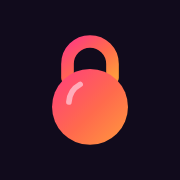
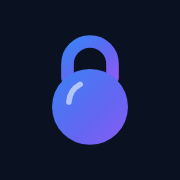
Paleta azul y más fácil encontrar todos los entrenamientos del PDF
- Paleta en azules: azul rey (PDF), índigo (pesa rusa), cian (mancuernas) y
  gris azulado (movilidad). Botones, menú e ícono con degradado azul. Las
  pesas siguen doradas y coral para que se vean contra la camiseta.
- La tarjeta del día tiene un botón con texto "Cambiar" (antes era solo
  un ícono). Su hoja agrupa las rutinas: Programa del PDF, los 14
  entrenamientos del PDF, pesa rusa, mancuernas y movilidad.
- Programa: números 1-15 para saltar a cualquier semana.
- La primera tarjeta de cada rutina muestra su estructura completa
  (ejercicio, repeticiones, rondas y pausas); si no cabe, el resumen por
  bloques. Se muestran también las series, además de los ejercicios.
- Verificado contra el PDF: los 14 entrenamientos y las 15 semanas.

Claude-Session: https://claude.ai/code/session_016intz6rYpumgujtNik13Ea

Changed region(s): [[0.2778, 0.1944, 0.7222, 0.8056]]

diff --git a/css/styles.css b/css/styles.css
@@ -1,25 +1,25 @@
-/* Forja · tarjetas que se deslizan. Cada categoría tiene su color: rosa programa, violeta pesa rusa, azul mancuernas, ámbar movilidad.
+/* Forja · tarjetas que se deslizan, en azules. Cada categoría tiene su azul: azul rey cardio y fuerza (PDF), índigo pesa rusa, cian mancuernas, gris azulado movilidad.
    Las pesas tienen color propio (dorado y coral) para no confundirse con la camiseta. */
 :root, [data-theme="light"] {
-  --bg: #f6f3fb;
+  --bg: #eef3fb;
   --surface: #ffffff;
-  --surface-2: #ece6f5;
-  --ink: #1d1430;
-  --ink-2: #6a5e85;
-  --line: #dfd6ec;
-  --mix: #e3245f;
-  --kb: #6f3be0;
-  --db: #0a77b5;
-  --mob: #b35a0a;
-  --ok: #128a52;
+  --surface-2: #e1e9f6;
+  --ink: #0e1a33;
+  --ink-2: #4d5f85;
+  --line: #d0dcee;
+  --mix: #1f62e0;
+  --kb: #3b3fd0;
+  --db: #0a7894;
+  --mob: #5b6f96;
+  --ok: #12875a;
   --danger: #d3263a;
   --on-cat: #ffffff;
-  --brand: linear-gradient(135deg, #ff3d7f 0%, #ff6a4d 55%, #ff9a3d 100%);
-  --brand-1: #ff3d7f;
-  --shadow: 0 1px 2px rgba(29, 20, 48, .06), 0 18px 36px -14px rgba(29, 20, 48, .28);
-  --shadow-sm: 0 1px 2px rgba(29, 20, 48, .05), 0 6px 16px -8px rgba(29, 20, 48, .18);
-  --fig-pants: #2b1f45;
-  --fig-shoe: #6a5e85;
+  --brand: linear-gradient(135deg, #2563eb 0%, #4f46e5 60%, #7c3aed 100%);
+  --brand-1: #2563eb;
+  --shadow: 0 1px 2px rgba(14, 26, 51, .06), 0 18px 36px -14px rgba(14, 26, 51, .28);
+  --shadow-sm: 0 1px 2px rgba(14, 26, 51, .05), 0 6px 16px -8px rgba(14, 26, 51, .18);
+  --fig-pants: #172340;
+  --fig-shoe: #52648a;
   --fig-skin: #f0b895;
   --fig-hair: #2a1e1a;
   --fig-kb: #f5b301;
@@ -37,21 +37,21 @@
 }
 @media (prefers-color-scheme: dark) {
   :root:not([data-theme="light"]) {
-    --bg: #110b1c; --surface: #1c1429; --surface-2: #281d3b; --ink: #f5efff; --ink-2: #ab9dc9; --line: #382a50;
-    --mix: #ff5c8d; --kb: #a585ff; --db: #4fb8f0; --mob: #f2a13b; --ok: #3dd68c; --danger: #ff6b7a; --on-cat: #110b1c;
+    --bg: #0a1121; --surface: #111b33; --surface-2: #1a2745; --ink: #ecf1ff; --ink-2: #9db0d8; --line: #263a63;
+    --mix: #5b94ff; --kb: #8d8fff; --db: #38c3e6; --mob: #93a6cc; --ok: #3dd68c; --danger: #ff6b7a; --on-cat: #0a1121; --brand-1: #7aa7ff;
     --shadow: 0 1px 2px rgba(0, 0, 0, .35), 0 18px 36px -14px rgba(0, 0, 0, .7);
     --shadow-sm: 0 1px 2px rgba(0, 0, 0, .3), 0 6px 16px -8px rgba(0, 0, 0, .55);
-    --fig-pants: #d4c8f0; --fig-shoe: #9c8fbf; --fig-skin: #f0b895; --fig-hair: #6b4a3a;
+    --fig-pants: #c5d3f5; --fig-shoe: #8da0c9; --fig-skin: #f0b895; --fig-hair: #6b4a3a;
     --fig-kb: #ffc53d; --fig-kb-h: #b98a10; --fig-db: #ff8f5e; --fig-db-h: #c2582a; --tint: 16%;
     color-scheme: dark;
   }
 }
 :root[data-theme="dark"], [data-theme="dark"] {
-  --bg: #110b1c; --surface: #1c1429; --surface-2: #281d3b; --ink: #f5efff; --ink-2: #ab9dc9; --line: #382a50;
-  --mix: #ff5c8d; --kb: #a585ff; --db: #4fb8f0; --mob: #f2a13b; --ok: #3dd68c; --danger: #ff6b7a; --on-cat: #110b1c;
+  --bg: #0a1121; --surface: #111b33; --surface-2: #1a2745; --ink: #ecf1ff; --ink-2: #9db0d8; --line: #263a63;
+  --mix: #5b94ff; --kb: #8d8fff; --db: #38c3e6; --mob: #93a6cc; --ok: #3dd68c; --danger: #ff6b7a; --on-cat: #0a1121; --brand-1: #7aa7ff;
   --shadow: 0 1px 2px rgba(0, 0, 0, .35), 0 18px 36px -14px rgba(0, 0, 0, .7);
   --shadow-sm: 0 1px 2px rgba(0, 0, 0, .3), 0 6px 16px -8px rgba(0, 0, 0, .55);
-  --fig-pants: #d4c8f0; --fig-shoe: #9c8fbf; --fig-skin: #f0b895; --fig-hair: #6b4a3a;
+  --fig-pants: #c5d3f5; --fig-shoe: #8da0c9; --fig-skin: #f0b895; --fig-hair: #6b4a3a;
   --fig-kb: #ffc53d; --fig-kb-h: #b98a10; --fig-db: #ff8f5e; --fig-db-h: #c2582a; --tint: 16%;
   color-scheme: dark;
 }
@@ -265,7 +265,7 @@ code { font: 600 .85em ui-monospace, Menlo, Consolas, monospace; background: var
 .fab-it:nth-last-child(2) { animation-delay: .03s; }
 .fab-it:nth-last-child(3) { animation-delay: .06s; }
 .fab-it:nth-last-child(4) { animation-delay: .09s; }
-.fab-back { position: fixed; inset: 0; z-index: 23; background: rgba(17, 11, 28, .5); -webkit-backdrop-filter: blur(3px); backdrop-filter: blur(3px); animation: fade .2s ease both; }
+.fab-back { position: fixed; inset: 0; z-index: 23; background: rgba(10, 17, 33, .5); -webkit-backdrop-filter: blur(3px); backdrop-filter: blur(3px); animation: fade .2s ease both; }
 .back-btn { justify-self: start; display: inline-flex; align-items: center; gap: 4px; min-height: 40px; padding: 0 16px 0 10px; border-radius: 999px; background: var(--surface); box-shadow: var(--shadow-sm); font: 800 .875rem/1 var(--f-body); margin-bottom: -8px; }
 .back-btn .ic { width: 18px; height: 18px; }
 .sr-only { position: absolute; width: 1px; height: 1px; overflow: hidden; clip: rect(0 0 0 0); white-space: nowrap; }
@@ -273,12 +273,12 @@ code { font: 600 .85em ui-monospace, Menlo, Consolas, monospace; background: var
 
 /* ---------- Hojas ---------- */
 .sheet { position: fixed; inset: 0; z-index: 30; display: flex; align-items: flex-end; justify-content: center; }
-.sheet-back { position: absolute; inset: 0; background: rgba(17, 11, 28, .62); animation: fade .2s ease both; }
+.sheet-back { position: absolute; inset: 0; background: rgba(10, 17, 33, .62); animation: fade .2s ease both; }
 .sheet-panel {
   position: relative; width: min(100%, 560px); max-height: min(92dvh, 92%); overflow-y: auto; overscroll-behavior: contain;
   background: var(--bg); color: var(--ink); border-radius: 30px 30px 0 0; outline: none;
   padding-bottom: env(safe-area-inset-bottom, 0px); animation: rise .3s cubic-bezier(.2, .8, .2, 1) both;
-  box-shadow: 0 -12px 40px rgba(17, 11, 28, .3);
+  box-shadow: 0 -12px 40px rgba(10, 17, 33, .3);
 }
 .sheet-x { position: sticky; top: 12px; display: grid; place-items: center; margin: 12px 12px -52px auto; z-index: 3; width: 42px; height: 42px; border-radius: 50%; background: var(--surface); box-shadow: var(--shadow-sm); }
 .sheet-body { padding: 26px 18px 20px; display: grid; gap: 12px; }
@@ -301,6 +301,8 @@ code { font: 600 .85em ui-monospace, Menlo, Consolas, monospace; background: var
 .xstage:has(.has-photo)::before { display: none; }
 
 .opts { display: grid; gap: 8px; margin-top: 6px; }
+.opt-h { font: 800 .8125rem/1 var(--f-body); letter-spacing: .12em; text-transform: uppercase; color: var(--ink-2); margin-top: 14px; }
+.opt small { line-height: 1.3; }
 .opt { display: grid; grid-template-columns: 14px minmax(0, 1fr) 20px; align-items: center; gap: 14px; padding: 14px; background: var(--surface); border-radius: var(--r-sm); box-shadow: var(--shadow-sm); border: 1.5px solid transparent; }
 .opt > span { display: grid; }
 .opt-dot { width: 14px; height: 14px; border-radius: 50%; background: var(--cat); }
@@ -372,7 +374,7 @@ code { font: 600 .85em ui-monospace, Menlo, Consolas, monospace; background: var
 .pl.is-reps .pl-done { display: inline-flex; }
 .pl.is-reps .pl-main { display: none; }
 .pl.is-paused .dial-fig { opacity: .6; }
-.pl-confirm { position: absolute; inset: 0; z-index: 3; display: grid; place-items: center; padding: 20px; background: rgba(17, 11, 28, .62); }
+.pl-confirm { position: absolute; inset: 0; z-index: 3; display: grid; place-items: center; padding: 20px; background: rgba(10, 17, 33, .62); }
 .pl-box { width: min(100%, 360px); display: grid; gap: 10px; background: var(--surface); color: var(--ink); border-radius: 24px; padding: 22px; box-shadow: var(--shadow); }
 .pl-box h3 { font: 800 1.75rem/1 var(--f-display); text-transform: uppercase; }
 .pl-box p { color: var(--ink-2); margin-bottom: 6px; }
@@ -441,6 +443,9 @@ code { font: 600 .85em ui-monospace, Menlo, Consolas, monospace; background: var
 .wkhead-n { font: 900 4.2rem/.9 var(--f-display); font-variant-numeric: tabular-nums; }
 .wkhead-n small { font: 800 1.4rem/1 var(--f-display); color: inherit; opacity: .7; margin-left: 4px; }
 .wkhead-name { font: 800 .75rem/1 var(--f-body); letter-spacing: .14em; text-transform: uppercase; background: color-mix(in srgb, var(--on-cat) 20%, transparent); padding: 6px 12px; border-radius: 99px; margin-top: 6px; }
+.wk-chips .gchip { min-width: 44px; justify-content: center; gap: 4px; padding: 0 12px; font-variant-numeric: tabular-nums; }
+.wk-chips .gchip .ic { width: 14px; height: 14px; color: var(--brand-1); }
+.wk-chips .gchip.is-on .ic { color: inherit; }
 .wkhead-bar { grid-column: 1 / -1; height: 8px; border-radius: 99px; background: color-mix(in srgb, var(--on-cat) 22%, transparent); overflow: hidden; margin-top: 8px; }
 .wkhead-bar i { display: block; height: 100%; background: var(--on-cat); border-radius: 99px; transition: width .4s; }
 .wkhead-sub { grid-column: 1 / -1; text-align: center; font-weight: 700; font-size: .875rem; opacity: .92; }
@@ -480,7 +485,7 @@ code { font: 600 .85em ui-monospace, Menlo, Consolas, monospace; background: var
 .dk-slot.is-next { animation: fade .3s ease both; }
 .dk-slot.is-top { z-index: 2; cursor: grab; }
 .deck.is-drag .dk-slot.is-top { cursor: grabbing; }
-.deck.is-drag .dk-slot.is-top .dk-card { box-shadow: 0 30px 60px -20px rgba(29, 20, 48, .5); }
+.deck.is-drag .dk-slot.is-top .dk-card { box-shadow: 0 30px 60px -20px rgba(14, 26, 51, .5); }
 .deck.nudge .dk-slot.is-top { animation: nudge 1.4s .6s ease-in-out both; }
 .dk-card {
   position: absolute; inset: 0; display: flex; flex-direction: column; overflow: hidden;
@@ -510,12 +515,11 @@ code { font: 600 .85em ui-monospace, Menlo, Consolas, monospace; background: var
 .dc-date { position: absolute; top: 12px; left: 12px; display: flex; align-items: center; gap: 8px; padding: 6px 12px 6px 10px; border-radius: 16px; background: var(--ink); color: var(--bg); }
 .dc-date b { font: 900 2.1rem/.9 var(--f-display); font-variant-numeric: tabular-nums; }
 .dc-date span { font: 800 .6875rem/1.15 var(--f-body); letter-spacing: .1em; text-transform: uppercase; }
-.dc-tr { position: absolute; z-index: 1; top: 12px; right: 12px; display: flex; align-items: center; gap: 6px; }
-.dc-rel { display: inline-flex; align-items: center; gap: 6px; min-height: 34px; padding: 0 12px; border-radius: 999px; background: var(--surface-2); font: 800 .75rem/1 var(--f-body); letter-spacing: .08em; text-transform: uppercase; color: var(--ink-2); }
+.dc-tr { position: absolute; z-index: 1; top: 12px; right: 12px; max-width: calc(100% - 118px); display: flex; align-items: center; gap: 6px; }
+.dc-rel { display: inline-flex; align-items: center; gap: 6px; min-height: 34px; padding: 0 12px; min-width: 0; white-space: nowrap; overflow: hidden; text-overflow: ellipsis; border-radius: 999px; background: var(--surface-2); font: 800 .75rem/1 var(--f-body); letter-spacing: .08em; text-transform: uppercase; color: var(--ink-2); }
 .dc-rel.is-btn { color: var(--brand-1); }
-.dc-rel .ic { width: 15px; height: 15px; }
-.dc-ib { width: 34px; height: 34px; border-radius: 50%; display: grid; place-items: center; background: var(--surface-2); color: var(--ink-2); }
-.dc-ib .ic { width: 17px; height: 17px; }
+.dc-rel .ic { width: 15px; height: 15px; flex: none; }
+.dc-rel.is-chg { flex: none; background: var(--brand); color: #fff; letter-spacing: .04em; text-transform: none; font-size: .8125rem; }
 .dc-nav {
   position: absolute; z-index: 1; top: 50%; translate: 0 -50%; width: 42px; height: 42px; border-radius: 50%; display: grid; place-items: center;
   background: color-mix(in srgb, var(--surface) 82%, transparent); color: var(--ink); box-shadow: var(--shadow-sm);
@@ -559,7 +563,7 @@ code { font: 600 .85em ui-monospace, Menlo, Consolas, monospace; background: var
 .dk-btn .ic { width: 26px; height: 26px; stroke-width: 2.6; }
 .dk-go {
   flex: 0 1 220px; min-width: 0; height: 66px; padding: 0 22px; border-radius: 999px; display: inline-flex; align-items: center; justify-content: center; gap: 10px;
-  background: var(--brand); color: #fff; font: 800 1.125rem/1 var(--f-body); box-shadow: 0 16px 30px -14px rgba(255, 61, 127, .85); transition: transform .12s; white-space: nowrap;
+  background: var(--brand); color: #fff; font: 800 1.125rem/1 var(--f-body); box-shadow: 0 16px 30px -14px rgba(37, 99, 235, .8); transition: transform .12s; white-space: nowrap;
 }
 .dk-go .ic { width: 20px; height: 20px; }
 .dk-btn:active, .dk-go:active { transform: scale(.93); }
@@ -571,10 +575,10 @@ code { font: 600 .85em ui-monospace, Menlo, Consolas, monospace; background: var
   padding-left: max(16px, env(safe-area-inset-left, 0px)); padding-right: max(16px, env(safe-area-inset-right, 0px));
 }
 .dv-in { width: 100%; max-width: 560px; margin: 0 auto; flex: 1; min-height: 0; display: flex; flex-direction: column; gap: 12px; }
-.dv-top { display: grid; grid-template-columns: 44px minmax(0, 1fr) 44px; align-items: center; gap: 10px; }
+.dv-top { display: grid; grid-template-columns: 44px minmax(0, 1fr) 62px; align-items: center; gap: 10px; }
 .dv-ib { width: 44px; height: 44px; border-radius: 50%; display: grid; place-items: center; background: var(--surface); box-shadow: var(--shadow-sm); }
 .dv-title { display: grid; text-align: center; min-width: 0; }
-.dv-title b { font: 800 1.2rem/1.1 var(--f-display); text-transform: uppercase; letter-spacing: .03em; white-space: nowrap; overflow: hidden; text-overflow: ellipsis; }
+.dv-title b { font: 800 1.2rem/1.05 var(--f-display); text-transform: uppercase; letter-spacing: .03em; display: -webkit-box; -webkit-line-clamp: 2; -webkit-box-orient: vertical; overflow: hidden; text-wrap: balance; }
 .dv-title span { font-size: .8125rem; font-weight: 600; color: var(--ink-2); white-space: nowrap; overflow: hidden; text-overflow: ellipsis; }
 .dv-count { justify-self: end; font: 800 .8125rem/1 var(--f-body); color: var(--ink-2); font-variant-numeric: tabular-nums; white-space: nowrap; }
 .dv-segs { display: flex; gap: 3px; }
@@ -602,6 +606,11 @@ code { font: 600 .85em ui-monospace, Menlo, Consolas, monospace; background: var
 .in-blocks li { display: inline-flex; gap: 6px; align-items: baseline; padding: 6px 11px; border-radius: 12px; background: color-mix(in srgb, var(--on-cat) 16%, transparent); font-size: .8125rem; }
 .in-blocks b { font-weight: 800; }
 .in-blocks span { opacity: .85; }
+.in-list { display: flex; flex-wrap: wrap; gap: 5px; }
+.in-list li { padding: 5px 10px; border-radius: 11px; background: color-mix(in srgb, var(--on-cat) 16%, transparent); font-size: .8125rem; line-height: 1.15; }
+.in-list li b { font-weight: 800; }
+.in-list li.is-sec { background: var(--on-cat); color: var(--cat); font-weight: 800; letter-spacing: .04em; text-transform: uppercase; font-size: .6875rem; }
+.in-list li.is-pause { background: transparent; box-shadow: inset 0 0 0 1.5px color-mix(in srgb, var(--on-cat) 45%, transparent); font-style: italic; }
 .in-note { font-size: .8125rem; line-height: 1.35; opacity: .9; }
 .in-swipe { display: inline-flex; align-items: center; gap: 6px; font: 800 .8125rem/1 var(--f-body); letter-spacing: .06em; text-transform: uppercase; }
 .in-swipe .ic { width: 16px; height: 16px; stroke-width: 3; animation: hint 1.2s ease-in-out infinite; }
@@ -613,6 +622,7 @@ code { font: 600 .85em ui-monospace, Menlo, Consolas, monospace; background: var
   .dc-title { font-size: clamp(2rem, 9vw, 2.6rem); }
   .ec-cue { -webkit-line-clamp: 2; }
   .in-blocks { display: none; }
+  .in-note { display: none; }
 }
 
 /* ---------- Formato 9:16 ---------- */
@@ -628,7 +638,7 @@ code { font: 600 .85em ui-monospace, Menlo, Consolas, monospace; background: var
     display: block; position: relative; overflow: hidden; transform: translateZ(0);
     height: calc(100dvh - 32px); aspect-ratio: 9 / 16; max-width: calc(100vw - 32px);
     border-radius: 40px; background: var(--bg);
-    box-shadow: 0 40px 90px -30px rgba(29, 20, 48, .55), 0 0 0 1px color-mix(in srgb, var(--ink) 10%, transparent);
+    box-shadow: 0 40px 90px -30px rgba(14, 26, 51, .55), 0 0 0 1px color-mix(in srgb, var(--ink) 10%, transparent);
   }
   .phone-scroll { display: block; height: 100%; overflow-y: auto; overscroll-behavior: contain; scrollbar-width: none; }
   .phone-scroll::-webkit-scrollbar { display: none; }

diff --git a/js/app.js b/js/app.js
@@ -203,6 +203,9 @@
   const secsOf = (st) => (st.type === 'rest' ? st.dur : st.mode === 'reps' ? repSecs(st) : st.dur);
   const minutesOf = (r) => Math.max(1, Math.round(stepsOf(r).reduce((a, s) => a + secsOf(s), 0) / 60));
   const countOf = (r) => new Set(stepsOf(r).filter((s) => s.type === 'work').map((s) => s.ex)).size;
+  // Series = cada vez que haces un ejercicio (ejercicios × rondas).
+  const setsOf = (r) => stepsOf(r).filter((s) => s.type === 'work').length;
+  const sets = (r) => { const n = setsOf(r); return `${n} ${n === 1 ? 'serie' : 'series'}`; };
   const fmtSecs = (n) => (n >= 120 ? `${Math.round(n / 60)} min` : `${n} s`);
   function repsLabel(a) {
     if (!Array.isArray(a)) return String(a);
@@ -374,8 +377,8 @@
         ${fig}
         <span class="dc-date"><b>${d.getDate()}</b><span>${DAYS_3[dow(d)]}<br>${MONTHS[d.getMonth()].slice(0, 3)}</span></span>
         <span class="dc-tr">
-          ${i === 0 ? `<span class="dc-rel">${rel}</span>` : `<button class="dc-rel is-btn" data-act="day-today" aria-label="${rel}. Volver a hoy">${rel} ${ic('today')}</button>`}
-          ${!done && !skipped ? `<button class="dc-ib" data-act="change" data-day="${ds}" aria-label="Cambiar la rutina de este día">${ic('swap')}</button>` : ''}
+          ${i === 0 ? `<span class="dc-rel">${rel}</span>` : `<button class="dc-rel is-btn" data-act="day-today" aria-label="${rel}. Volver a hoy" title="Volver a hoy">${rel}</button>`}
+          ${!done && !skipped ? `<button class="dc-rel is-chg" data-act="change" data-day="${ds}" aria-label="Cambiar la rutina de este día">${ic('swap')} Cambiar</button>` : ''}
         </span>
         <button class="dc-nav is-l" data-act="day-go" data-d="-1" aria-label="Día anterior">${ic('left')}</button>
         <button class="dc-nav is-r" data-act="day-go" data-d="1" aria-label="Día siguiente">${ic('chevron')}</button>
@@ -657,17 +660,39 @@
     if (exs.some((e) => EX[e].floor)) notes.push('Incluye ejercicios en el suelo.');
     const figs = showcase(r, 4);
     const blocks = r.sections.map((s) => `<li><b>${s.title}</b><span>${roundsOf(s) ? `${roundsOf(s)} · ` : ''}${ejN(s.items.length)}</span></li>`).join('');
+    // Estructura completa (ejercicio y repeticiones) cuando cabe en la tarjeta.
+    const chips = [];
+    r.sections.forEach((sec) => {
+      const rl = sec.rounds > 1 ? `${sec.rounds} rondas` : '';
+      const head = r.sections.length > 1 ? sec.title + (rl && !/ronda/i.test(sec.title) ? ` · ${rl}` : '') : rl;
+      if (head) chips.push(`<li class="is-sec">${head}</li>`);
+      sec.items.forEach((it) => chips.push(`<li><b>${EX[it.ex].n}</b> ${specOf(it)}</li>`));
+      if (sec.roundRest >= 60) chips.push(`<li class="is-pause">${fmtSecs(sec.roundRest)} entre rondas</li>`);
+      if (sec.pause) chips.push(`<li class="is-pause">Pausa ${fmtSecs(sec.pause)}</li>`);
+    });
+    const structure = `<ul class="in-list">${chips.join('')}</ul><ul class="in-blocks" hidden>${blocks}</ul>`;
     return `<article class="dk-card intro-card cat-${r.cat}">
       <div class="in-grid n${figs.length}">${figs.map((id) => `<span class="in-cell fig" data-fig="${id}" ${top ? 'data-live' : ''}></span>`).join('')}</div>
       <div class="dc-body">
-        <div class="hero-top"><span class="pill">${r.sess ? `Programa · semana ${r.sess.w}` : CATS[r.cat].label}</span><span class="pill">${ic('clock')} ${minutesOf(r)} min</span><span class="pill">${ejN(countOf(r))}</span></div>
+        <div class="hero-top"><span class="pill">${r.sess ? `Programa · semana ${r.sess.w}` : CATS[r.cat].label}</span><span class="pill">${ic('clock')} ${minutesOf(r)} min</span><span class="pill">${ejN(countOf(r))}${setsOf(r) > countOf(r) ? ` · ${sets(r)}` : ''}</span></div>
         <h2 class="h-display dc-title ${r.name.length > 22 ? 'is-long' : ''}">${r.name}</h2>
         <p class="dc-tag">${r.tagline}</p>
-        <ul class="in-blocks">${blocks}</ul>
+        ${structure}
         ${notes.length ? `<p class="in-note">${notes.join(' ')}</p>` : ''}
         <p class="in-swipe">Desliza para ver cada ejercicio ${ic('chevron')}</p>
       </div>
     </article>`;
+  }
+  // Muestra la estructura completa y, si no cabe en la tarjeta, el resumen por bloques.
+  function fitIntro(root) {
+    root.querySelectorAll('.intro-card').forEach((c) => {
+      const l = c.querySelector('.in-list');
+      const bl = c.querySelector('.in-blocks');
+      if (!l || !bl) return;
+      l.hidden = false;
+      bl.hidden = true;
+      if (c.querySelector('.in-grid').getBoundingClientRect().height < 90) { l.hidden = true; bl.hidden = false; }
+    });
   }
   function exCard(r, x, k, total, top) {
     const e = EX[x.it.ex];
@@ -721,6 +746,7 @@
       get: (k, top) => (k === 0 ? introCard(r, top) : exCard(r, items[k - 1], k, n - 1, top)),
       hint: (k) => (k === 0 ? 'Resumen' : EX[items[k - 1].it.ex].n),
       onChange: (k) => {
+        fitIntro($('#ex-deck'));
         $('#dv-count').textContent = k === 0 ? 'Resumen' : `${k}/${n - 1}`;
         document.querySelectorAll('#dv-segs i').forEach((el, j) => el.classList.toggle('on', j <= k));
       }
@@ -837,6 +863,7 @@
         <div class="wkhead-bar" role="progressbar" aria-valuenow="${pct}" aria-valuemin="0" aria-valuemax="100"><i style="width:${pct}%"></i></div>
         <p class="wkhead-sub">${done} de ${total} sesiones hechas${skipped ? ` · ${skipped} omitida${skipped > 1 ? 's' : ''}` : ''}</p>
       </section>
+      <div class="gchips wk-chips" role="group" aria-label="Ir a una semana">${PROGRAM.map((_, k) => `<button class="gchip ${k + 1 === w ? 'is-on' : ''}" data-act="week-set" data-w="${k + 1}" aria-pressed="${k + 1 === w}" ${PROGRAM_NAMES[k] ? `title="${PROGRAM_NAMES[k]}"` : ''}>${k + 1}${PROGRAM_NAMES[k] ? ` ${ic('flame')}` : ''}</button>`).join('')}</div>
       <section class="grp cat-mix">
         <h2 class="h-sec">Sesiones de la semana</h2>
         <ul class="sess">${rows}</ul>
@@ -922,6 +949,8 @@
     if (ui.tab === 'hoy') mountHoy(); else dayDeck = null;
     FIG.hydrate(view);
     startRotor();
+    const wc = $('.wk-chips', view);
+    if (wc) { const on = $('.is-on', wc); if (on) wc.scrollLeft = on.offsetLeft - (wc.clientWidth - on.clientWidth) / 2; }
   }
 
   /* Vista previa de la portada: va pasando por los ejercicios de la rutina. */
@@ -1014,19 +1043,24 @@
   function changeSheet() {
     const ds = ui.day;
     const cur = routineFor(ds);
-    const opts = [
-      { id: 'prog', name: 'Programa del PDF', cat: 'mix', sub: `Semana ${S.week} · siguiente sesión` },
-      ...ROUTINES.filter((r) => !r.src).map((r) => ({ id: r.id, name: r.name, cat: r.cat, sub: `${CATS[r.cat].label} · ${GOALS[r.goal]} · ${minutesOf(r)} min` })),
-      ...ROUTINES.filter((r) => r.src).map((r) => ({ id: r.id, name: r.name, cat: r.cat, sub: `Entrenamiento del PDF · ${minutesOf(r)} min` })),
-      { id: 'rest', name: 'Descanso', cat: 'mob', sub: 'Sin entrenamiento' }
-    ];
+    const line = (r) => `${ejN(countOf(r))}${setsOf(r) > countOf(r) ? ` · ${sets(r)}` : ''} · ${minutesOf(r)} min`;
+    const groups = [
+      { t: 'Programa del PDF', list: [{ id: 'prog', name: 'Siguiente sesión del programa', cat: 'mix', sub: `Semana ${S.week} de ${PROGRAM.length}` }] },
+      { t: `Entrenamientos del PDF · ${ROUTINES.filter((r) => r.src).length}`, list: ROUTINES.filter((r) => r.src).map((r) => ({ id: r.id, name: r.name, cat: r.cat, sub: `${line(r)} · ${r.tagline}` })) },
+      ...Object.keys(CATS).filter((c) => c !== 'mix').map((c) => ({
+        t: CATS[c].label,
+        list: ROUTINES.filter((r) => !r.src && r.cat === c).map((r) => ({ id: r.id, name: r.name, cat: r.cat, sub: `${GOALS[r.goal]} · ${line(r)}` }))
+      })),
+      { t: 'Descanso', list: [{ id: 'rest', name: 'Descanso', cat: 'mob', sub: 'Sin entrenamiento' }] }
+    ].filter((g) => g.list.length);
+    const opt = (o) => `<button class="opt cat-${o.cat} ${cur === o.id ? 'is-on' : ''}" data-act="set-over" data-id="${o.id}">
+      <i class="opt-dot"></i><span><b>${o.name}</b><small>${o.sub}</small></span>${cur === o.id ? ic('check') : ''}</button>`;
     openSheet(`
       <button class="sheet-x" data-act="close-sheet" aria-label="Cerrar">${ic('close')}</button>
       <div class="sheet-body">
         <p class="eyebrow">${cap(longDate(parse(ds)))}</p>
-        <h2 class="h-display sheet-title">¿Qué toca hoy?</h2>
-        <div class="opts">${opts.map((o) => `<button class="opt cat-${o.cat} ${cur === o.id ? 'is-on' : ''}" data-act="set-over" data-id="${o.id}">
-          <i class="opt-dot"></i><span><b>${o.name}</b><small>${o.sub}</small></span>${cur === o.id ? ic('check') : ''}</button>`).join('')}</div>
+        <h2 class="h-display sheet-title">¿Qué toca este día?</h2>
+        ${groups.map((g) => `<h3 class="opt-h">${g.t}</h3><div class="opts">${g.list.map(opt).join('')}</div>`).join('')}
         ${S.over[ds] !== undefined ? `<button class="btn-ghost block" data-act="clear-over">Volver al plan semanal</button>` : ''}
       </div>`);
   }
@@ -1391,6 +1425,7 @@
     goal(b) { ui.goal = b.dataset.g; render(); },
     lib(b) { ui.lib = b.dataset.v; render(); },
     exg(b) { ui.exg = b.dataset.g; render(); },
+    'week-set'(b) { S.week = Number(b.dataset.w); save(); render(); toTop(); },
     'week-go'(b) { S.week = Math.max(1, Math.min(PROGRAM.length, S.week + Number(b.dataset.d))); save(); render(); toTop(); },
     'set-over'(b) { S.over[ui.day] = b.dataset.id; save(); closeSheet(); render(); },
     'clear-over'() { delete S.over[ui.day]; save(); closeSheet(); render(); },

diff --git a/index.html b/index.html
@@ -5,7 +5,7 @@
 <meta name="viewport" content="width=device-width, initial-scale=1, viewport-fit=cover">
 <title>Forja</title>
 <meta name="description" content="Tu plan semanal de pesa rusa, mancuernas y cardio, con temporizador guiado.">
-<meta name="theme-color" content="#110B1C">
+<meta name="theme-color" content="#0A1121">
 <link rel="manifest" href="manifest.webmanifest">
 <link rel="icon" href="icons/icon.svg" type="image/svg+xml">
 <link rel="apple-touch-icon" href="icons/icon-180.png">

diff --git a/sw.js b/sw.js
@@ -1,5 +1,5 @@
 // Cache simple para que Forja funcione sin conexión una vez abierta.
-const CACHE = 'forja-v10';
+const CACHE = 'forja-v11';
 const ASSETS = [
   './',
   'index.html',

diff --git a/README.md b/README.md
@@ -29,6 +29,8 @@ En el temporizador, desliza a la izquierda para pasar al siguiente ejercicio y a
 
 La pestaña **Programa** tiene las 15 semanas del PDF (Aphrodite, Artemis, Hades, Iris, Venus, Poseidon, Dione, Zeus, Metis y los entrenamientos "MAX"), con sus pausas. Cada sesión terminada se marca sola. En el plan semanal, los días con "Programa del PDF" toman la siguiente sesión pendiente de la semana que estés haciendo.
 
+Para encontrar cualquier entrenamiento: en la tarjeta del día, **Cambiar** lista los 14 del PDF (y todas las demás rutinas) agrupados; en **Programa**, los números 1–15 saltan a esa semana; y al abrir una sesión, la primera tarjeta muestra su estructura completa (ejercicios, repeticiones y pausas).
+
 El PDF no dice cuántas rondas tiene Zeus; se dejaron 3 (cámbialo en `js/data.js`). Varios ejercicios del PDF se hacen en el suelo (flexiones, abdominales, burpees, escaladores) y las dominadas necesitan una barra.
 
 ## Rutinas incluidas
